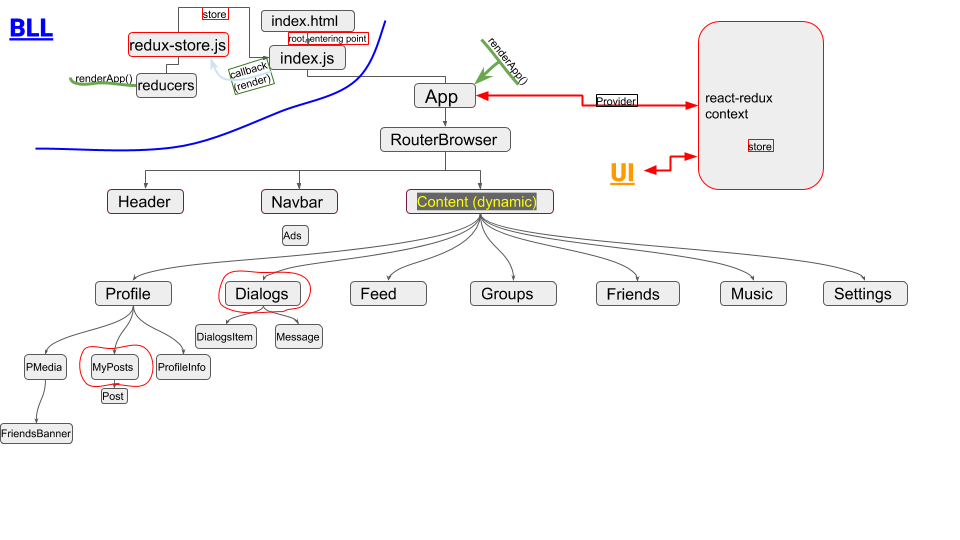
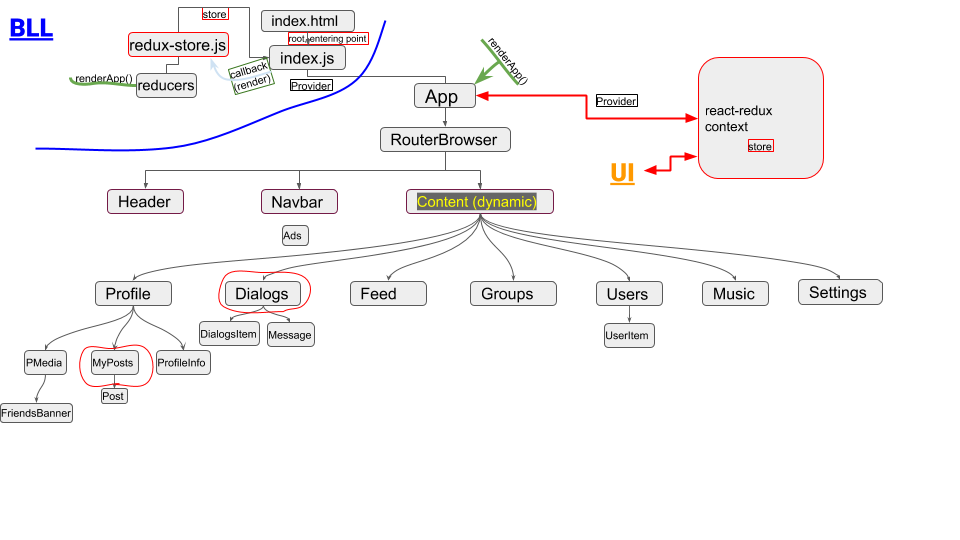
Users page reducer and components

diff --git a/src/redux/users-reducer.js b/src/redux/users-reducer.js
@@ -1,0 +1,83 @@
+const FOLLOW = "FOLLOW";
+const UNFOLLOW = "UNFOLLOW";
+const SET_USERS = "SET-USERS"
+
+let initialState = {
+    users: [
+        {
+            id: 1,
+            followed: true,
+            fullName: "Valery Fikalis",
+            status: "I want pizza",
+            location: {country: "Niger", city: "Samara"},
+            img: "https://cdn.images.express.co.uk/img/dynamic/25/590x/secondary/Google-Maps-Street-View-has-captured-a-close-up-of-a-very-confused-and-very-cute-cat-1423729.jpg?r=1532353596872"
+        },
+        {
+            id: 2,
+            followed: false,
+            fullName: "Arbuz Baksov",
+            status: "Hooman lives matter",
+            location: {country: "Russia", city: "Saransk"},
+            img: "https://iruntheinternet.com/lulzdump/images/stoned-looking-cat-close-up-picture-13849018563.jpg"
+        },
+        {
+            id: 3,
+            followed: false,
+            fullName: "Kevin V",
+            status: "Looking for a new master",
+            location: {country: "Ukraine", city: "Kiev"},
+            img: "https://i.pinimg.com/564x/2a/c1/d6/2ac1d69e8948129160842716ba1a8683.jpg"
+        },
+        {
+            id: 4,
+            followed: true,
+            fullName: "Baks Voloshin",
+            status: "Ты быканул или мне показалось?",
+            location: {country: "Ukraine", city: "Dnepr"},
+            img: "https://lh3.googleusercontent.com/proxy/nAz0VALCyGcxzWiBEr3eDeTA10vu7v1EsF5pkpKJj5gVaJ-wPFtS6-WEdZf934qEP-R7Jpw9q9XI-U486Rb09B9T07qTLMrbdV8qWQl0A49JAgVtEHeSUZa_Q6adw7fb4So807ISnyqdiHW08RRHLw"
+        },
+    ]
+}
+
+const usersReducer = (state = initialState, action) => {
+    switch (action.type) {
+        case FOLLOW: {
+            return {
+                ...state,
+                users: state.users.map(u => {
+                    if (u.id === action.userId) {
+                        return {...u, followed: true}
+                    }
+                    return u;
+                })
+            }
+        }
+        case UNFOLLOW: {
+            return {
+                ...state,
+                users: state.users.map(u => {
+                    if (u.id === action.userId) {
+                        return {...u, followed: false}
+                    }
+                    return u;
+                })
+            }
+        }
+
+        case SET_USERS: {
+            return {
+                ...state,
+                users: [...state.users, ...action.users]
+            }
+        }
+
+        default:
+            return state;
+    }
+}
+
+export const followAC = (userId) => ({type: FOLLOW, userId})
+export const unfollowAC = (userId) => ({type: UNFOLLOW, userId})
+export const setUsersAC = (users) => ({type: SET_USERS, users})
+
+export default usersReducer;

diff --git a/src/App.js b/src/App.js
@@ -7,8 +7,8 @@ import Music from "./components/Music/Music";
 import Settings from "./components/Settings/Settings";
 import Groups from "./components/Groups/Groups";
 import Feed from "./components/Feed/Feed";
-import Friends from "./components/Friends/Friends";
 import DialogsContainer from "./components/Dialogs/DialogsContainer";
+import UsersContainer from "./components/Users/UsersContainer";
 
 function App() {
     return (
@@ -17,11 +17,11 @@ function App() {
                 <Header/>
                 <Navbar/>
                 <div className='app-wrapper-content'>
-                    <Route path="/dialogs"  render={() => <DialogsContainer />}/>
                     <Route path="/profile"  render={() => <Profile />}/>
+                    <Route path="/dialogs"  render={() => <DialogsContainer />}/>
                     <Route path="/feed"     render={() => <Feed />}/>
+                    <Route path="/users"    render={() => <UsersContainer />}/>
                     <Route path="/groups"   render={() => <Groups />}/>
-                    <Route path="/friends"  render={() => <Friends />}/>
                     <Route path="/music"    render={() => <Music />}/>
                     <Route path="/settings" render={() => <Settings />}/>
                 </div>

diff --git a/src/components/Users/Users.jsx b/src/components/Users/Users.jsx
@@ -1,0 +1,26 @@
+import st from './Users.module.css'
+import UserItem from "./UserItem/UserItem";
+
+function Users(props) {
+    debugger
+    let usersElements = props.users.map(u => <UserItem
+        id={u.id} key={u.id} img={u.img} fullName={u.fullName} location={u.location} status={u.status} followed={u.followed}
+        follow={props.follow} unfollow={props.unfollow}/>);
+
+    return (
+        <div className={st.usersPage}>
+            <div className={st.filters}>
+                <span className={st.usersSwitch}>Friends</span>
+                <span className={st.usersSwitch}>Requests</span>
+                <span className={st.usersSwitch}>All users</span>
+                <span className={st.usersSearch}><input/></span>
+                <span><button onClick={() => {}}>Find</button></span>
+            </div>
+            <div className={st.usersItems}>
+                {usersElements}
+            </div>
+        </div>
+    );
+}
+
+export default Users;

diff --git a/src/components/Users/UserItem/UserItem.jsx b/src/components/Users/UserItem/UserItem.jsx
@@ -1,0 +1,24 @@
+import st from "./UserItem.module.css";
+
+function UserItem(props) {
+    return (
+        <div className={st.user} key={props.id}>
+            <div className={st.avatar}>
+                <div><img className={st.img} src={props.img} alt="userPfp"/> </div>
+                <div className={st.followBtn}> { props.followed
+                    ? <button onClick={() => {props.unfollow(props.id)}}>Follow</button>
+                    : <button onClick={() => {props.follow(props.id)}}>Unfollow</button>} </div>
+            </div>
+            <div className={st.info}>
+                <div>{props.fullName}</div>
+                <div>{props.status}</div>
+            </div>
+            <div className={st.location}>
+                <div>{props.location.country}</div>
+                <div>{props.location.city}</div>
+            </div>
+        </div>
+    );
+}
+
+export default UserItem;

diff --git a/src/redux/dialogs-reducer.js b/src/redux/dialogs-reducer.js
@@ -80,27 +80,20 @@ const dialogsReducer = (state = initialState, action) => {
                 messages:[...state.messages, newMessage]
             };
         }
+
         case UPDATE_MESSAGE_TEXT: {
             return {
                 ...state,
                 newMessageText: action.text
             };
         }
+
         default:
             return state;
     }
 }
 
-export const sendMessageActionCreator = () => {
-    return {
-        type: SEND_MESSAGE
-    }
-}
-export const messageChangeActionCreator = (text) => {
-    return {
-        type: UPDATE_MESSAGE_TEXT,
-        text: text
-    }
-}
+export const sendMessageActionCreator = () => ({type: SEND_MESSAGE})
+export const messageChangeActionCreator = (text) => ({type: UPDATE_MESSAGE_TEXT, text: text})
 
 export default dialogsReducer;

diff --git a/src/redux/profile-reducer.js b/src/redux/profile-reducer.js
@@ -63,27 +63,20 @@ const profileReducer = (state=initialState, action) => {
                 posts: [...state.posts, newPost]
             };
         }
+
         case UPDATE_POST_TEXT: {
             return {
                 ...state,
                 newPostText: action.text
             };
         }
+
         default:
             return state;
     }
 }
 
-export const addPostActionCreator = () => {
-    return {
-        type: ADD_POST
-    }
-}
-export const postChangeActionCreator = (text) => {
-    return {
-        type: UPDATE_POST_TEXT,
-        text: text
-    }
-}
+export const addPostActionCreator = () => ({ type: ADD_POST})
+export const postChangeActionCreator = (text) => ({ type: UPDATE_POST_TEXT, text: text})
 
 export default profileReducer;

diff --git a/src/components/Navbar/Navbar.jsx b/src/components/Navbar/Navbar.jsx
@@ -15,10 +15,10 @@ function Navbar() {
                 <NavLink to="/feed" activeClassName={st.active}>Feed</NavLink>
             </div>
             <div className={st.item}>
-                <NavLink to="/groups" activeClassName={st.active}>Groups</NavLink>
+                <NavLink to="/users" activeClassName={st.active}>Users</NavLink>
             </div>
             <div className={st.item}>
-                <NavLink to="/friends" activeClassName={st.active}>Friends</NavLink>
+                <NavLink to="/groups" activeClassName={st.active}>Groups</NavLink>
             </div>
             <div className={st.item}>
                 <NavLink to="/music" activeClassName={st.active}>Music</NavLink>

diff --git a/src/components/Users/UsersContainer.jsx b/src/components/Users/UsersContainer.jsx
@@ -1,0 +1,25 @@
+import Users from "./Users";
+import {connect} from "react-redux";
+import {followAC, unfollowAC, setUsersAC} from "../../redux/users-reducer";
+
+let mapStateToProps = (state) => {
+    return {
+        users: state.usersPage.users
+    }
+}
+let mapDispatchToProps = (dispatch) => {
+    return {
+        follow: (userId) => {
+            dispatch(followAC(userId));
+        },
+        unfollow: (userId) => {
+            dispatch(unfollowAC(userId));
+        },
+        setUsers: (users) => {
+            dispatch(setUsersAC(users));
+        }
+    }
+}
+const UsersContainer = connect(mapStateToProps, mapDispatchToProps)(Users);
+
+export default UsersContainer;

diff --git a/src/components/Users/UserItem/UserItem.module.css b/src/components/Users/UserItem/UserItem.module.css
@@ -1,0 +1,34 @@
+.user {
+    display: grid;
+    grid-template-columns: 1fr 6fr 3fr;
+    background-color: #1F3041;
+    border:solid #151E27 1px;
+    margin: -1px 0.5vw;
+    padding: 0.5vw;
+    border-radius: 0.5vw;
+    height: 6em;
+}
+
+.avatar {
+    text-align: left;
+}
+.followBtn button {
+    width: 5rem;
+    height: 1.4rem;
+    font-size: 1rem;
+}
+
+.info {
+    text-align: left;
+}
+
+.location {
+    text-align: right;
+}
+
+.img {
+    width: 5rem;
+    height: 5rem;
+    border-radius: 40px;
+    object-fit: cover;
+}

diff --git a/src/redux/redux-store.js b/src/redux/redux-store.js
@@ -1,11 +1,12 @@
 import {combineReducers, createStore} from "redux";
 import profileReducer from "./profile-reducer";
 import dialogsReducer from "./dialogs-reducer";
+import usersReducer from "./users-reducer";
 
 let reducers = combineReducers({
     profilePage: profileReducer,
     dialogsPage: dialogsReducer,
-
+    usersPage: usersReducer
 });
 
 let store = createStore(reducers);

diff --git a/src/components/Navbar/Navbar.module.css b/src/components/Navbar/Navbar.module.css
@@ -1,7 +1,7 @@
 .nav {
     grid-area: n;
     background-color: burlywood;
-    padding: 20px;
+    padding: .8em;
     border-radius: 2px;
     max-height: 30vw;
     position: sticky;
@@ -13,7 +13,7 @@
     color:white;
     text-decoration: none;
     font-weight: 500;
-    font-size: 17px;
+    font-size: 1.2em;
     /*background-color: #D1872D;*/
 }
 .item a.active {

diff --git a/src/components/Users/Users.module.css b/src/components/Users/Users.module.css
@@ -1,0 +1,23 @@
+.filters {
+    height: 4em;
+    line-height: 4em;
+    padding: 0vw 4.5vw;
+    background-color: #1F3041;
+
+}
+.filters button {
+    height: 2em;
+    margin: 0.5em;
+}
+
+
+
+.usersItems {
+    padding: 1vw 4vw;
+    text-align: center
+}
+
+.usersSwitch {
+    margin-right: 1em;
+}
+
